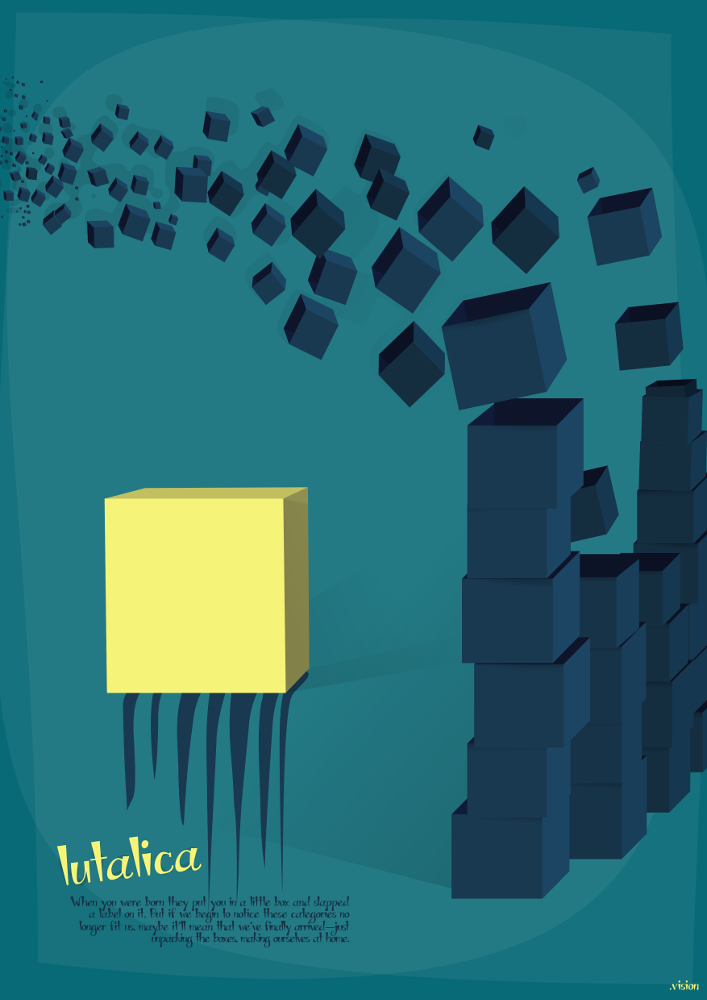
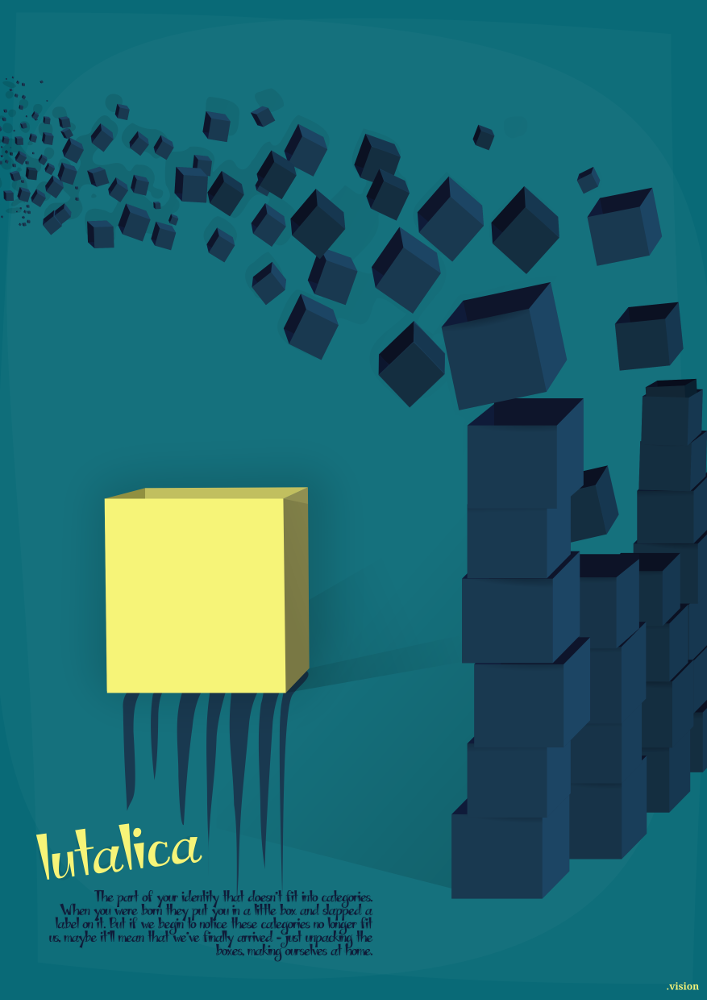
new lutalica img and descr, some changes css

Changed region(s): [[0.0311, 0.806, 0.529, 0.961], [0.9335, 0.961, 0.9958, 0.992], [0.1867, 0.465, 0.2178, 0.496]]

diff --git a/static/css/vision.min.css b/static/css/vision.min.css
@@ -1,1 +1,1 @@
-a,a:hover,a:active,a:focus{color:#00a66f;transition:all .8s .1s;text-shadow:0 0 2px rgba(76,237,184,.8)}a:hover,a:active,a:focus{transition:all .4s;text-shadow:0 0 10px #4cedb8}.fa{text-shadow:0 0 4px rgba(0,0,0,.35)}::selection{background-color:#4cedb8;color:#111}@media(min-width:768px){section{padding:100px 0}}section.bg-darkest-gray{background-image:url(../img/noise_dark.png)}.glow{position:absolute;height:1px;width:1px;border-radius:30px;background:transparent}@keyframes glow{0%,100%{box-shadow:0 1px 0 0 #4cedb8}10%{box-shadow:0 1px 30px 8px #4cedb8}}@keyframes slideFromTop{0%{transform:translateY(-200%)}100%{transform:translateY(0)}}@keyframes appearFromTop{0%{transform:translateY(-400%);opacity:0}100%{transform:translateY(0);opacity:1}}@keyframes appearFromLeft{0%{transform:translateX(-400%);opacity:0}100%{transform:translateX(0);opacity:1}}@keyframes appearFromRight{0%{transform:translateX(400%);opacity:0}100%{transform:translateX(0);opacity:1}}@keyframes appearFromBottom{0%{transform:translateY(400%);opacity:0}100%{transform:translateY(0);opacity:1}}@keyframes slideFromRight{0%{transform:translateX(150%)}100%{transform:translateX(0)}}@keyframes grow{0%{transform:scale(.4)}100%{transform:scale(1)}}.navbar-default{background:linear-gradient(rgba(0,0,0,1),rgba(0,0,0,.5),rgba(0,0,0,0));transition:all .2s;border:0;animation:slideFromTop .6s;top:-1px}.navbar-default .nav li a{transition:all .8s .1s}.navbar-default .nav li a:hover,.navbar-default .nav li a:focus{transition:all .4s;color:#a8ffe2}.navbar-brand>img{transition:all 1s .1s;border-radius:100%}.navbar-brand>img:hover,.navbar-brand>img:focus{transition:all .3s;box-shadow:0 0 10px #4cedb8}.navbar-default .navbar-nav>.active>a,.navbar-default .navbar-nav>.active>a:hover,.navbar-default .navbar-nav>.active>a:active,.navbar-default .navbar-nav>.active>a:hover,.navbar-default .navbar-nav>.active>a:focus{color:#fff;transition:all .4s;text-shadow:0 0 10px #4cedb8;background-color:transparent}@media(min-width:768px){.navbar-default.navbar-shrink{padding:0 0 10px 0;box-shadow:0 1px 30px rgba(0,0,0,0.5);background-color:transparent;background:linear-gradient(rgba(0,0,0,1),rgba(0,0,0,.7))}}@media screen and (max-width:767px){.navbar-default{background:linear-gradient(rgba(0,0,0,1),rgba(0,0,0,.8));padding-bottom:10px;box-shadow:0 1px 30px rgba(0,0,0,0.5);border-top:0}.navbar-fixed-bottom,.navbar-fixed-top{right:-1px;left:-1px;top:-1px}.navbar-toggle{margin-top:10px;margin-bottom:6px}}.navbar-default .navbar-toggle{border:0;background-color:transparent;transition:all .5s .1s}.navbar-default .navbar-toggle:hover,.navbar-default .navbar-toggle:active,.navbar-default .navbar-toggle:focus{background-color:rgba(250,250,250,0.1);transition:all .3s}.navbar-default .navbar-collapse{border:0;padding-left:15px}.navbar-default .nav li a{padding-left:20px}.navbar-default .nav li{text-align:center}.container-fluid>.navbar-collapse,.container-fluid>.navbar-header,.container>.navbar-collapse,.container>.navbar-header{margin-top:10px;padding-left:15px;border:0}header{box-shadow:0 -15px 40px -16px #000 inset}header .intro-text{padding-top:27%;padding-bottom:50px}header .intro-text .intro-heading{font-size:70px;text-shadow:0 0 40px rgba(0,0,0,.65);animation:appearFromLeft 1.2s cubic-bezier(0,.46,.45,1.15);margin-bottom:15px}header .intro-text .intro-lead-in{text-shadow:0 1px 8px rgba(0,0,0,.74);animation:appearFromRight 1.2s cubic-bezier(0,.46,.45,1.15);font-size:22px;position:relative;margin-bottom:0;color:rgba(0,0,0,.7);transition:all .3s}@media screen and (max-width:767px){header .intro-text{padding-top:50%;padding-bottom:50px}}.btn{box-shadow:0 2px 10px -4px rgba(0,0,0,0.45);transition:all .3s;color:#222;text-shadow:0 1px 2px rgba(255,255,255,.7);background-color:#4cedb8;border-radius:4px;border:0}.btn .fa{text-shadow:0 1px 2px rgba(255,255,255,.7)}.btn:hover,.btn:active,.btn:focus{color:#333;background-color:#73ffd1;box-shadow:0 2px 14px -4px rgba(0,0,0,0.5)}.btn:active{transform-origin:50% 50%;transform:scale(.9)}.btn-xl,.btn-xl:focus{box-shadow:0 2px 15px rgba(0,0,0,0.45);padding:12px 24px;font-size:16px;animation:appearFromBottom .8s cubic-bezier(.07,.4,.67,1.09);margin-top:13%}.btn-xl:hover,.btn-xl:active{box-shadow:0 2px 5px rgba(0,0,0,0.4)}section h3.section-subheading{text-align:justify;line-height:1.5em;padding:0 15px;margin:20px 30px 80px 30px}.timeline>li .timeline-image{background-color:#bbb;color:#fff;border:0}.img-circle{border:1px solid rgba(0,0,0,0.4);box-shadow:0 2px 8px -2px rgba(0,0,0,0.5)}.timeline>li .timeline-image h4{margin-top:50%;transform:translateY(-50%);font-size:18pt}.timeline:before{background-color:#fff;border-right:1px solid #ccc}#portfolio .portfolio-item,#SenzaParole .portfolio-item{right:0;margin:15px;box-shadow:0 3px 30px -5px rgba(0,0,0,1);padding:0;margin-left:15px;margin-right:15px;max-width:calc(50% - 30px);transition:all .3s;animation:grow .4s}#portfolio .portfolio-item .portfolio-link,#SenzaParole .portfolio-item .portfolio-link{display:block;position:relative;margin:0 auto;max-width:400px}#portfolio .portfolio-item .portfolio-link .portfolio-hover,#SenzaParole .portfolio-item .portfolio-link .portfolio-hover{position:absolute;width:100%;height:100%;opacity:0;background-color:rgba(76,237,184,.6);-webkit-transition:all ease .5s;-moz-transition:all ease .5s;transition:all ease .5s}#portfolio .portfolio-item .portfolio-link .portfolio-hover:hover,#SenzaParole .portfolio-item .portfolio-link .portfolio-hover:hover{opacity:1}#portfolio .portfolio-item .portfolio-link .portfolio-hover .portfolio-hover-content,#SenzaParole .portfolio-item .portfolio-link .portfolio-hover .portfolio-hover-content{position:absolute;top:50%;width:100%;height:20px;margin-top:-12px;text-align:center;font-size:20px;color:#fff}#portfolio .portfolio-item .portfolio-link .portfolio-hover .portfolio-hover-content i,#SenzaParole .portfolio-item .portfolio-link .portfolio-hover .portfolio-hover-content i{margin-top:-12px}#portfolio .portfolio-item .portfolio-link .portfolio-hover .portfolio-hover-content h,#SenzaParole .portfolio-item .portfolio-link .portfolio-hover .portfolio-hover-content h3,#portfolio .portfolio-item .portfolio-link .portfolio-hover .portfolio-hover-content h4,#SenzaParole .portfolio-item .portfolio-link .portfolio-hover .portfolio-hover-content h4{margin:0}#portfolio .portfolio-item .portfolio-caption,#SenzaParole .portfolio-item .portfolio-caption{margin:0 auto;padding:25px;max-width:400px;text-align:center;background-color:#fff;border:1px solid rgba(0,0,0,.15);border-top:0;border-bottom:1px solid rgba(0,0,0,.2)}#portfolio .portfolio-item .portfolio-caption h4,#SenzaParole .portfolio-item .portfolio-caption h4{margin:0;text-transform:none}#portfolio .portfolio-item .portfolio-caption p,#SenzaParole .portfolio-item .portfolio-caption p{margin:0;font-family:"Droid Serif","Helvetica Neue",Helvetica,Arial,sans-serif;font-size:16px;font-style:italic}#portfolio *,#SenzaParole *{z-index:2}.senzaparole p,.senzaparole h2{font-family:"Droid Serif","Helvetica Neue",Helvetica,Arial,sans-serif;text-transform:none}.senzaparole h2{text-align:left;padding-left:10px}.senzaparole p{text-align:justify}@media(min-width:992px){#portfolio .col-md-4,#SenzaParole .col-md-4{width:calc(33% - 30px)}}@media(max-width:768px){#portfolio .portfolio-item,#SenzaParole .portfolio-item{left:50%;transform:translateX(-50%);margin-left:0;margin-right:0;margin-bottom:40px;max-width:80%;box-shadow:none}#portfolio .portfolio-item .portfolio-caption,#SenzaParole .portfolio-item .portfolio-caption{box-shadow:0 8px 25px -6px #000}}#portfolio_title h2,#portfolio_title h3{color:#fff;text-shadow:0 2px 4px #101010}#close_btn{animation:slideFromRight .4s;position:fixed;right:14px;top:13px;border-radius:100px;font-size:20px;background-color:rgba(0,0,0,.5);box-shadow:none;box-shadow:0 1px 15px -2px rgba(0,0,0,.5);transition:all .5s .1s}#close_btn .fa-remove:before,#close_btn .fa-close:before,.fa-times:before{text-shadow:none;color:rgba(255,255,255,.9)}#close_btn:hover{background-color:rgba(0,0,0,.5);color:#111;box-shadow:none;transition:all .3s}.modal-body{top:-20px;margin:0 35px 25px 35px}.portfolio-modal .modal-content{padding:40px 40px;background-color:#e9e9e9;background-image:url('../img/texture.png')}.img-centered{max-width:100%}.portfolio-modal .modal-content p{line-height:1.6em}.portfolio-modal .modal-content img{box-shadow:0 2px 10px -2px rgba(0,0,0,0.35);margin:0;margin-left:0;margin-top:0;margin-right:0;margin-bottom:0}.portfolio-modal .modal-content .modal-img-frame{box-shadow:0 8px 35px -8px rgba(0,0,0,0.4);padding:50px;margin:40px 10px;background-color:#fff}@media(max-width:767px){.modal-body{top:-20px;padding:0;margin:0}.portfolio-modal .modal-content{padding:40px 5px}.portfolio-modal .modal-content img{margin:0;margin-left:0;margin-right:0;margin-top:0;margin-bottom:0;box-shadow:0 2px 10px -3px rgba(0,0,0,0.3)}.portfolio-modal .modal-content .modal-img-frame{padding:20px}.portfolio-modal .modal-content h2{margin:15px;margin-top:30px;padding-left:20px}.portfolio-modal .modal-content p{margin:10px 24px;line-height:1.5em}}ul.social-buttons li a{box-shadow:0 2px 8px -2px rgba(0,0,0,0.5)}ul.social-buttons li a:hover,ul.social-buttons li a:focus,ul.social-buttons li a:active{background-color:#00a66f}footer div#credits{position:relative;bottom:0;min-width:50%;left:50%;transform:translateX(-50%)}footer div#credits ul li{display:inline-block}
+a,a:hover,a:active,a:focus{color:#00a66f;transition:all .8s .1s;text-shadow:0 0 2px rgba(76,237,184,.8)}a:hover,a:active,a:focus{transition:all .4s;text-shadow:0 0 10px #4cedb8}.fa{text-shadow:0 0 4px rgba(0,0,0,.35)}::selection{background-color:#4cedb8;color:#111}@media(min-width:768px){section{padding:100px 0}}section.bg-darkest-gray{background-image:url(../img/noise_dark.png)}.glow{position:absolute;height:1px;width:1px;border-radius:30px;background:transparent}@keyframes glow{0%,100%{box-shadow:0 1px 0 0 #4cedb8}10%{box-shadow:0 1px 30px 8px #4cedb8}}@keyframes slideFromTop{0%{transform:translateY(-200%)}100%{transform:translateY(0)}}@keyframes appearFromTop{0%{transform:translateY(-400%);opacity:0}100%{transform:translateY(0);opacity:1}}@keyframes appearFromLeft{0%{transform:translateX(-400%);opacity:0}100%{transform:translateX(0);opacity:1}}@keyframes appearFromRight{0%{transform:translateX(400%);opacity:0}100%{transform:translateX(0);opacity:1}}@keyframes appearFromBottom{0%{transform:translateY(400%);opacity:0}100%{transform:translateY(0);opacity:1}}@keyframes slideFromRight{0%{transform:translateX(150%)}100%{transform:translateX(0)}}@keyframes grow{0%{transform:scale(.4)}100%{transform:scale(1)}}.navbar-default{background:linear-gradient(rgba(0,0,0,1),rgba(0,0,0,.5),rgba(0,0,0,0));transition:all .2s;border:0;animation:slideFromTop .6s;top:-1px}.navbar-default .nav li a{transition:all .8s .1s}.navbar-default .nav li a:hover,.navbar-default .nav li a:focus{transition:all .4s;color:#a8ffe2}.navbar-brand>img{transition:all 1s .1s;border-radius:100%}.navbar-brand>img:hover,.navbar-brand>img:focus{transition:all .3s;box-shadow:0 0 10px #4cedb8}.navbar-default .navbar-nav>.active>a,.navbar-default .navbar-nav>.active>a:hover,.navbar-default .navbar-nav>.active>a:active,.navbar-default .navbar-nav>.active>a:hover,.navbar-default .navbar-nav>.active>a:focus{color:#fff;transition:all .4s;text-shadow:0 0 10px #4cedb8;background-color:transparent}@media(min-width:768px){.navbar-default.navbar-shrink{padding:0 0 10px 0;box-shadow:0 1px 30px rgba(0,0,0,0.5);background-color:transparent;background:linear-gradient(rgba(0,0,0,1),rgba(0,0,0,.7))}}@media screen and (max-width:767px){.navbar-default{background:linear-gradient(rgba(0,0,0,1),rgba(0,0,0,.8));padding-bottom:10px;box-shadow:0 1px 30px rgba(0,0,0,0.5);border-top:0}.navbar-fixed-bottom,.navbar-fixed-top{right:-1px;left:-1px;top:-1px}.navbar-toggle{margin-top:10px;margin-bottom:6px}}.navbar-default .navbar-toggle{border:0;background-color:transparent;transition:all .5s .1s}.navbar-default .navbar-toggle:hover,.navbar-default .navbar-toggle:active,.navbar-default .navbar-toggle:focus{background-color:rgba(250,250,250,0.1);transition:all .3s}.navbar-default .navbar-collapse{border:0;padding-left:15px}.navbar-default .nav li a{padding-left:20px}.navbar-default .nav li{text-align:center}.container-fluid>.navbar-collapse,.container-fluid>.navbar-header,.container>.navbar-collapse,.container>.navbar-header{margin-top:10px;padding-left:15px;border:0}header{box-shadow:0 -15px 40px -16px #000 inset;background-color:#000;transition:all .5s}header .intro-text{padding-top:27%;padding-bottom:50px}header .intro-text .intro-heading{font-size:70px;text-shadow:0 0 40px rgba(0,0,0,.65);animation:appearFromLeft 1.2s cubic-bezier(0,.46,.45,1.15);margin-bottom:15px}header .intro-text .intro-lead-in{text-shadow:0 1px 8px rgba(0,0,0,.74);animation:appearFromRight 1.2s cubic-bezier(0,.46,.45,1.15);font-size:22px;position:relative;margin-bottom:0;color:rgba(255,255,255,.9);transition:all .3s}@media screen and (max-width:767px){header .intro-text{padding-top:50%;padding-bottom:50px}}.btn{box-shadow:0 2px 10px -4px rgba(0,0,0,0.45);transition:all .3s;color:#222;text-shadow:0 1px 2px rgba(255,255,255,.7);background-color:#4cedb8;border-radius:4px;border:0}.btn .fa{text-shadow:0 1px 2px rgba(255,255,255,.7)}.btn:hover,.btn:active,.btn:focus{color:#333;background-color:#73ffd1;box-shadow:0 2px 14px -4px rgba(0,0,0,0.5)}.btn:active{transform-origin:50% 50%;transform:scale(.9)}.btn-xl,.btn-xl:focus{box-shadow:0 2px 15px rgba(0,0,0,0.45);padding:12px 24px;font-size:16px;animation:appearFromBottom .8s cubic-bezier(.07,.4,.67,1.09);margin-top:13%}.btn-xl:hover,.btn-xl:active{box-shadow:0 2px 5px rgba(0,0,0,0.4)}section h3.section-subheading{text-align:justify;line-height:1.5em;padding:0 15px;margin:20px 30px 80px 30px}.timeline>li .timeline-image{background-color:#bbb;color:#fff;border:0}.img-circle{border:1px solid rgba(0,0,0,0.4);box-shadow:0 2px 8px -2px rgba(0,0,0,0.5)}.timeline>li .timeline-image h4{margin-top:50%;transform:translateY(-50%);font-size:18pt}.timeline:before{background-color:#fff;border-right:1px solid #ccc}#portfolio .portfolio-item,#SenzaParole .portfolio-item{right:0;margin:15px;box-shadow:0 3px 30px -5px rgba(0,0,0,1);padding:0;margin-left:15px;margin-right:15px;max-width:calc(50% - 30px);transition:all .3s;animation:grow .4s}#portfolio .portfolio-item .portfolio-link,#SenzaParole .portfolio-item .portfolio-link{display:block;position:relative;margin:0 auto;max-width:400px}#portfolio .portfolio-item .portfolio-link .portfolio-hover,#SenzaParole .portfolio-item .portfolio-link .portfolio-hover{position:absolute;width:100%;height:100%;opacity:0;background-color:rgba(76,237,184,.6);-webkit-transition:all ease .5s;-moz-transition:all ease .5s;transition:all ease .5s}#portfolio .portfolio-item .portfolio-link .portfolio-hover:hover,#SenzaParole .portfolio-item .portfolio-link .portfolio-hover:hover{opacity:1}#portfolio .portfolio-item .portfolio-link .portfolio-hover .portfolio-hover-content,#SenzaParole .portfolio-item .portfolio-link .portfolio-hover .portfolio-hover-content{position:absolute;top:50%;width:100%;height:20px;margin-top:-12px;text-align:center;font-size:20px;color:#fff}#portfolio .portfolio-item .portfolio-link .portfolio-hover .portfolio-hover-content i,#SenzaParole .portfolio-item .portfolio-link .portfolio-hover .portfolio-hover-content i{margin-top:-12px}#portfolio .portfolio-item .portfolio-link .portfolio-hover .portfolio-hover-content h,#SenzaParole .portfolio-item .portfolio-link .portfolio-hover .portfolio-hover-content h3,#portfolio .portfolio-item .portfolio-link .portfolio-hover .portfolio-hover-content h4,#SenzaParole .portfolio-item .portfolio-link .portfolio-hover .portfolio-hover-content h4{margin:0}#portfolio .portfolio-item .portfolio-caption,#SenzaParole .portfolio-item .portfolio-caption{margin:0 auto;padding:25px;max-width:400px;text-align:center;background-color:#fff;border:1px solid rgba(0,0,0,.15);border-top:0;border-bottom:1px solid rgba(0,0,0,.2)}#portfolio .portfolio-item .portfolio-caption h4,#SenzaParole .portfolio-item .portfolio-caption h4{margin:0;text-transform:none}#portfolio .portfolio-item .portfolio-caption p,#SenzaParole .portfolio-item .portfolio-caption p{margin:0;font-family:"Droid Serif","Helvetica Neue",Helvetica,Arial,sans-serif;font-size:16px;font-style:italic}#portfolio *,#SenzaParole *{z-index:2}.senzaparole p,.senzaparole h2{font-family:"Droid Serif","Helvetica Neue",Helvetica,Arial,sans-serif;text-transform:none}.senzaparole h2{text-align:left;padding-left:10px}.senzaparole p{text-align:justify}@media(min-width:992px){#portfolio .col-md-4,#SenzaParole .col-md-4{width:calc(33% - 30px)}}@media(max-width:768px){#portfolio .portfolio-item,#SenzaParole .portfolio-item{left:50%;transform:translateX(-50%);margin-left:0;margin-right:0;margin-bottom:40px;max-width:80%;box-shadow:none}#portfolio .portfolio-item .portfolio-caption,#SenzaParole .portfolio-item .portfolio-caption{box-shadow:0 8px 25px -6px #000}}#portfolio_title h2,#portfolio_title h3{color:#fff;text-shadow:0 2px 4px #101010}#close_btn{animation:slideFromRight .4s;position:fixed;right:14px;top:13px;border-radius:100px;font-size:20px;background-color:rgba(0,0,0,.5);box-shadow:none;box-shadow:0 1px 15px -2px rgba(0,0,0,.5);transition:all .5s .1s}#close_btn .fa-remove:before,#close_btn .fa-close:before,.fa-times:before{text-shadow:none;color:rgba(255,255,255,.9)}#close_btn:hover{background-color:rgba(0,0,0,.5);color:#111;box-shadow:none;transition:all .3s}.modal-body{top:-20px;margin:0 35px 25px 35px}.portfolio-modal .modal-content{padding:40px 40px;background-color:#e9e9e9;background-image:url('../img/texture.png')}.img-centered{max-width:100%}.portfolio-modal .modal-content p{line-height:1.6em}.portfolio-modal .modal-content img{box-shadow:0 2px 10px -2px rgba(0,0,0,0.35);margin:0;margin-left:0;margin-top:0;margin-right:0;margin-bottom:0}.portfolio-modal .modal-content .modal-img-frame{box-shadow:0 8px 35px -8px rgba(0,0,0,0.4);padding:50px;margin:40px 10px;background-color:#fff}@media(max-width:767px){.modal-body{top:-20px;padding:0;margin:0}.portfolio-modal .modal-content{padding:40px 5px}.portfolio-modal .modal-content img{margin:0;margin-left:0;margin-right:0;margin-top:0;margin-bottom:0;box-shadow:0 2px 10px -3px rgba(0,0,0,0.3)}.portfolio-modal .modal-content .modal-img-frame{padding:20px}.portfolio-modal .modal-content h2{margin:15px;margin-top:30px;padding-left:20px}.portfolio-modal .modal-content p{margin:10px 24px;line-height:1.5em}}ul.social-buttons li a{box-shadow:0 2px 8px -2px rgba(0,0,0,0.5)}ul.social-buttons li a:hover,ul.social-buttons li a:focus,ul.social-buttons li a:active{background-color:#00a66f}footer div#credits{position:relative;bottom:0;min-width:50%;left:50%;transform:translateX(-50%)}footer div#credits ul li{display:inline-block}

diff --git a/static/css/vision.css b/static/css/vision.css
@@ -223,6 +223,8 @@ section.bg-darkest-gray {
 
 header {
   box-shadow: 0 -15px 40px -16px #000 inset;
+  background-color: #000;
+  transition: all .5s;
 }
 
 header .intro-text {
@@ -244,7 +246,8 @@ header .intro-text .intro-lead-in {
    font-size: 22px;
    position: relative;
    margin-bottom: 0;
-   color: rgba(0,0,0,.7);
+   /*color: rgba(0,0,0,.7);*/
+   color: rgba(255,255,255,.9);
    transition: all .3s;
 }
 /*HEADER MOBILE*/
